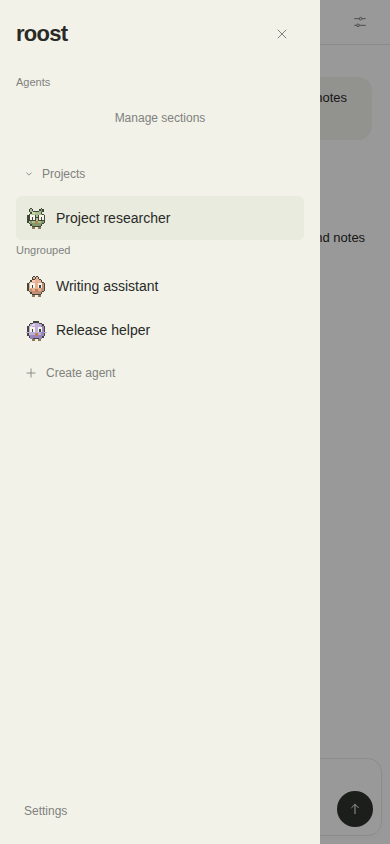
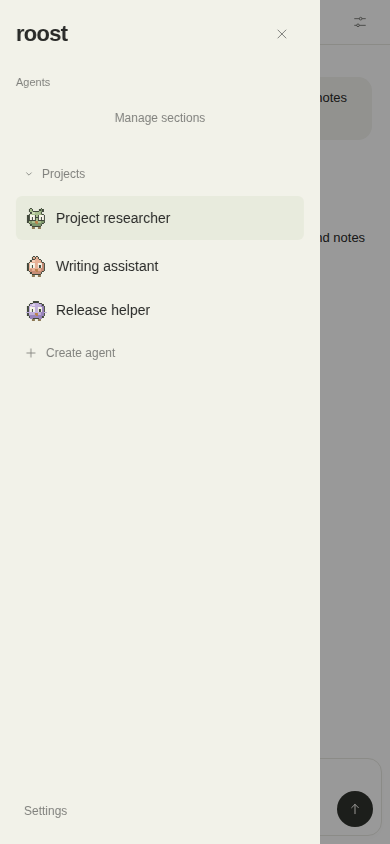
Refresh plain default navigation evidence at 1850632

diff --git a/VERIFICATION.md b/VERIFICATION.md
@@ -1,39 +1,27 @@
-# Agent rename and navigation sections handoff
+# PR #36 — plain default navigation refinement
 
 PR: https://github.com/srctl/roost/pull/36
-Feature branch: feat/agent-rename
-Tested/pushed head: 7ae52d9d6c389ca04b4262161d0692d785da1f58
-Base: origin/main ed3ca2e (refetched before PR; PR reports OPEN and MERGEABLE)
-Screenshot evidence: https://github.com/srctl/roost/tree/071378b8f0ced0d0cb5ccc9e0897fa123b36ad33
-Evidence branch: evidence/agent-rename-sections (separate from feature source diff)
+Branch: feat/agent-rename
+Final head: 185063234c9870160a76d76cdec0f85ee9de62e1
+Tested rebase base: 0f0e818 (Notes backend PR #20). Latest fetched main: 3fd052f (Notes UI PR #21); migration/store interfaces are byte-identical to tested 0f0e818, and GitHub confirms this PR remains MERGEABLE. No second schema integration needed.
 
-## Delivered
+Removed the Ungrouped navigation heading on desktop/mobile. Default agents remain plain links with no label, box or new visual treatment, both with zero sections and with sections present. Only created sections have labels. The management select retains Ungrouped. No ordering, routing, draft or styling changes.
 
-Agent settings display-name editor, trimmed 1–60 character shared validation, save/cancel/errors, immediate route refresh. Navigation sections support create/rename/delete, single optional membership, Ungrouped, persisted collapse and deterministic creation ordering. Section creation retries preserve UUID after lost response. Section deletion never deletes agents. Stable agent UUIDs, conversations, threads, jobs, automations, notes, files, links, soul content, disk paths and private state are preserved. Instance-wide sections follow existing auth and do not confer permissions. One shared PR avoids duplicating editor/refresh/schema/browser infrastructure.
+The branch was rebased onto current main; the store conflict was resolved by keeping Notes migration and navigation savepoint inside the existing core14 transaction and preserving both error mappings. No PR merge or deployment occurred. Original legacy-core13 and current-core14 tests cover upgrade/data preservation. Notes interfaces at integration/notes-approved b88809d match main's inspected migration contracts.
 
-## Verification
+## Final verification
 
-PASS on final committed source:
+- Full `pnpm check` passed (exit 0): lint, TypeScript, 205 tests, app/CLI builds, production authentication, sites TypeScript, 6 sites tests and both site builds.
+- Updated desktop/mobile browser suite passed on final production build; captures independently assert zero/with-section states and unchanged route/draft.
+- Focused navigation + Notes + schema-upgrade tests passed. Both core13 upgrade and actual core14 Notes preservation/rollback are covered.
+- `git diff --check` passed. Remote feature head matches and PR #36 is MERGEABLE.
 
-- Full `pnpm check`, exit 0: lint, typecheck, 185 tests, app/CLI build, production auth, sites typecheck, 6 sites tests, marketing/docs builds.
-- Exact environment: process-local `umask 022`; `env -u NITRO_PORT -u NITRO_HOST -u ROOST_CODEX_BINARY -u ROOST_HERDR_BINARY -u HERDR_SOCKET_PATH -u ROOST_RUN_ID ROOST_DATA_DIR=/tmp/agent-rename-check-fixture CODEX_HOME=/tmp/agent-rename-check-codex npm exec --yes --package=pnpm@9.15.0 -- pnpm check`.
-- `node --import tsx tests/agent-navigation.test.ts`: 3 focused persistence/validation/migration/data-preservation tests.
-- `ROOST_TEST_CHROME=/usr/bin/google-chrome node --import tsx tests/browser/agent-navigation.ts`: desktop/mobile rename validation/cancel/save, create/move/rename/delete sections, persisted collapse, active URL and main/reply draft continuity, no horizontal overflow, compiled mutation 401/403/session behavior. Desktop dark and mobile light. Simulated committed create with failed response verifies same UUID and exactly one section on retry.
-- Notes compatibility smoke composed in a disposable copy at integration/notes-approved 8dc63e8d75badc1c50868267d8e3c4a0e51e3dcc: original core13 fixture upgraded to Notes core14 plus navigation; rename/group/delete preserves actual agent_notes, note_revisions and main conversation ID.
-- `git diff --check`; remote feature head matches; GitHub evidence tree contains 12 PNGs and checked raw links return HTTP 200.
+Browser assertions cover desktop/mobile plain default list before creation, with a section, and after deletion; retain management option, agent order/UUID routes, active main/reply drafts, section collapse/move/delete and lost-response retry/auth coverage.
 
-Initial test attempts exposed inherited managed-environment assumptions (live Codex binary override, restrictive umask, Nitro port). Retried in isolated environment. One auth retry overlapped a rebuild; a disposable diagnostic helper exposed the startup problem, and the unmodified auth script plus final full check passed. No host configuration changes or live data changes. No outstanding feature failures. Existing build deprecation/config warnings are nonfatal.
+Screenshots: original six final-state after captures refreshed; eight additional matched captures show before/after at zero sections and section present (desktop 1440x1000, mobile 390x844). Actual Chrome, same isolated fixture UUIDs/content/active agent/draft/theme/viewport per pair. Before-refinement head 7ae52d9. Old evidence is preserved in branch history.
 
-## Evidence and reproducibility
+## Cleanup/handoff
 
-Actual Chrome before/after screenshots have identical fixture UUIDs, content, typed draft, light theme and viewports: desktop 1440x1000, mobile 390x844; conversation/settings/navigation views. After settings opens the new editor in the same settings sheet. Baseline ed3ca2e; final retry fix has no visual changes. Images embedded in PR and on separate evidence branch; no logs, screenshots or disposable helpers in feature diff.
+Completed: node_modules, app/site build outputs, dependency store, before/after source copies and check fixtures removed. Git worktree is clean (including ignored outputs). No task-owned test/browser/build processes remain. Logs/HANDOFF and screenshots remain outside the worktree and on the evidence branch; retain clean worktree for coordinator removal.
 
-Concise useful logs retained here: check-final.log, retry-browser-tests.txt, retry-unit-tests.txt, notes-compat.log. Capture/helper files and troubleshooting logs also retained locally outside worktree. Committed tests are canonical runnable verification.
-
-## Integration and assumptions
-
-Core remains v13 in this PR. Navigation has its own feature version and savepoint migration, compatible with the Notes branch's outer core14 transaction. When combining Notes and this PR, retain migrateAgentNavigation(db) and AgentNavigationMigrationError mapping in store.server.ts. No dependency PR required on current main. Existing agents are ungrouped; agents retain creation order, sections use creation position/UUID. Collapse is instance-wide navigation metadata. No nesting/multiple memberships, drag-and-drop or permissions feature added.
-
-## Cleanup
-
-Completed: task node_modules, .output, marketing/docs dist, pnpm store, baseline/after/Notes compatibility copies, test data/Codex directories, and stopped fixture leftovers removed. `git status --short --ignored` is empty. Logs/HANDOFF and remote screenshots remain accessible. The worktree itself MUST remain for coordinator removal: the managed Herdr/Codex worker is still active here. Do not close its managed session before completion is recorded. No task-owned build/test/browser processes remain. Preserve the feature/evidence branches and remote PR. No unrelated branches/worktrees or live preview processes were modified.
+No live user data, unrelated worktrees or preview processes changed. Keep the managed session open for coordinator completion recording. Coordinator removes the clean task worktree after the worker is no longer using it.

diff --git a/plain-default/README.md b/plain-default/README.md
@@ -1,0 +1,12 @@
+# Plain default navigation refinement
+
+The default agent list has no Ungrouped heading, box or extra visual treatment, with zero sections or with created sections present. Only created sections have labels. The management select still offers Ungrouped.
+
+Actual Chrome screenshots use the same fixture UUIDs, conversation content, active agent, draft, light theme and viewport before/after: desktop 1440x1000; mobile 390x844. Before is PR head 7ae52d9; after is the final pushed refinement head recorded in VERIFICATION.md. No live data used.
+
+| State | Before | After |
+| --- | --- | --- |
+| Desktop, zero sections | ![Before desktop zero sections](before-desktop-zero-sections.png) | ![After desktop zero sections](after-desktop-zero-sections.png) |
+| Desktop, section present | ![Before desktop with section](before-desktop-sections.png) | ![After desktop with section](after-desktop-sections.png) |
+| Mobile, zero sections | ![Before mobile zero sections](before-mobile-zero-sections.png) | ![After mobile zero sections](after-mobile-zero-sections.png) |
+| Mobile, section present | ![Before mobile with section](before-mobile-sections.png) | ![After mobile with section](after-mobile-sections.png) |

diff --git a/README.md b/README.md
@@ -14,3 +14,7 @@ The after state renames “Research assistant” to “Project researcher” and
 | Mobile navigation | ![Before mobile navigation](before-mobile-navigation.png) | ![After mobile navigation](after-mobile-navigation.png) |
 
 This evidence-only branch is separate from the feature PR source diff.
+
+## Plain default navigation refinement
+
+Final feature head: `185063234c9870160a76d76cdec0f85ee9de62e1`. All after images refreshed on this head. [Zero/with-section desktop/mobile before-and-after gallery](plain-default/README.md). [Final verification and coordinator handoff](VERIFICATION.md). Older captures remain in branch history.
